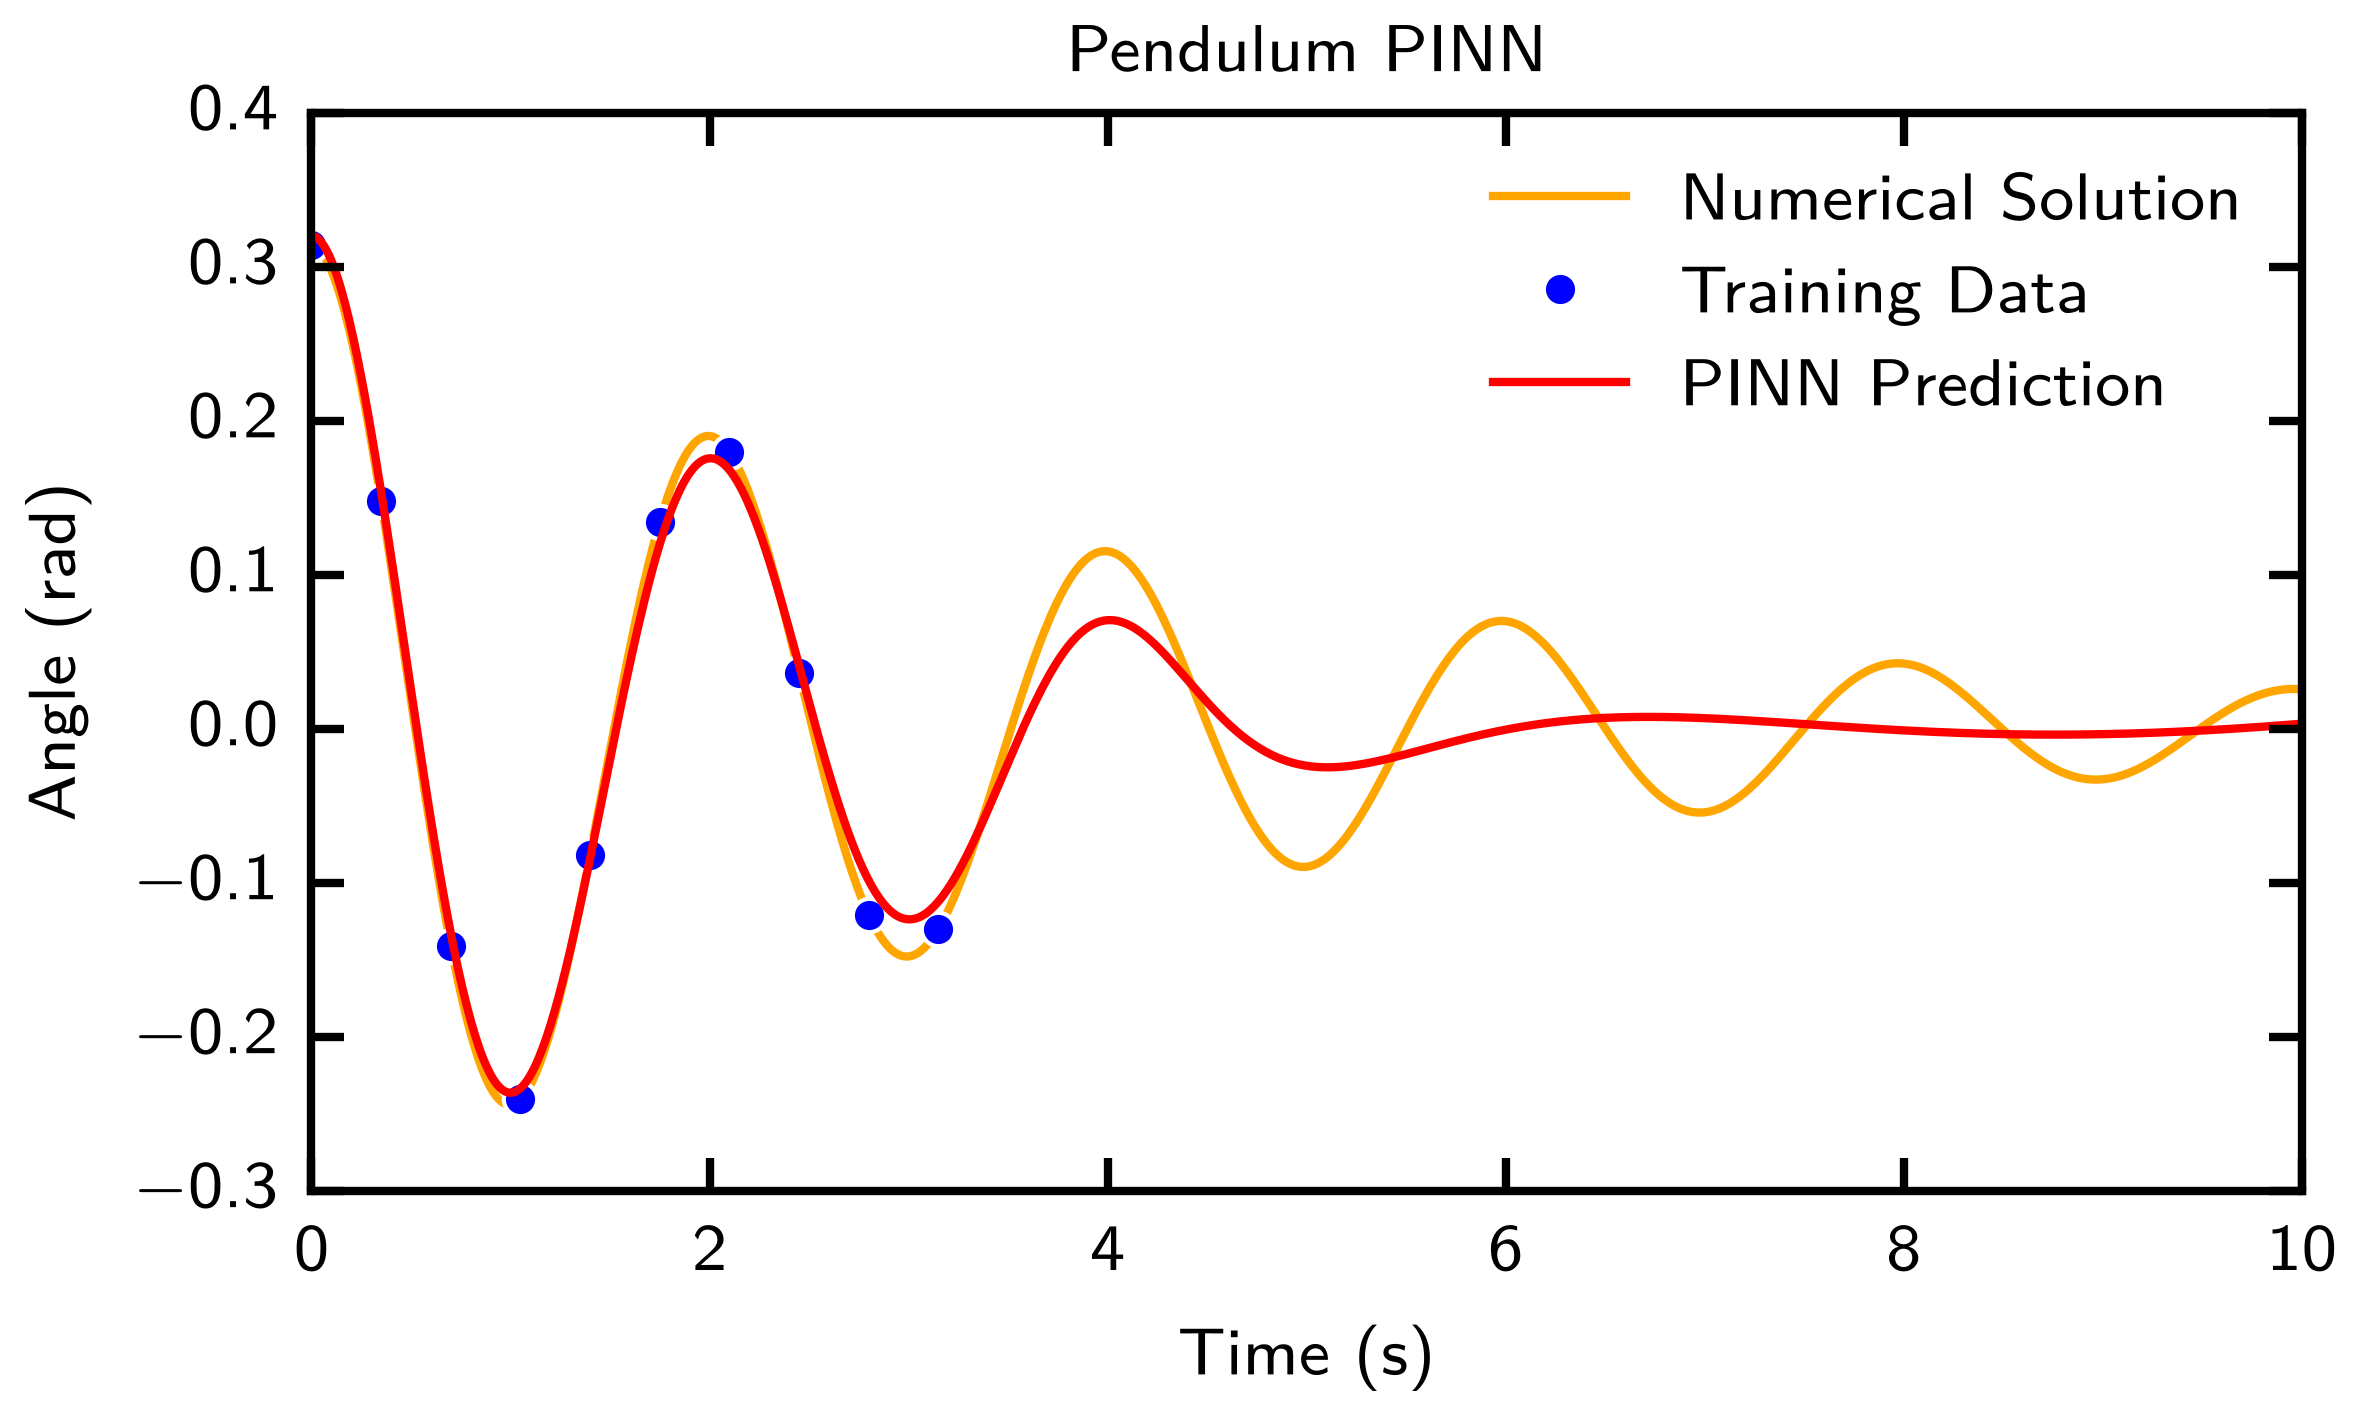
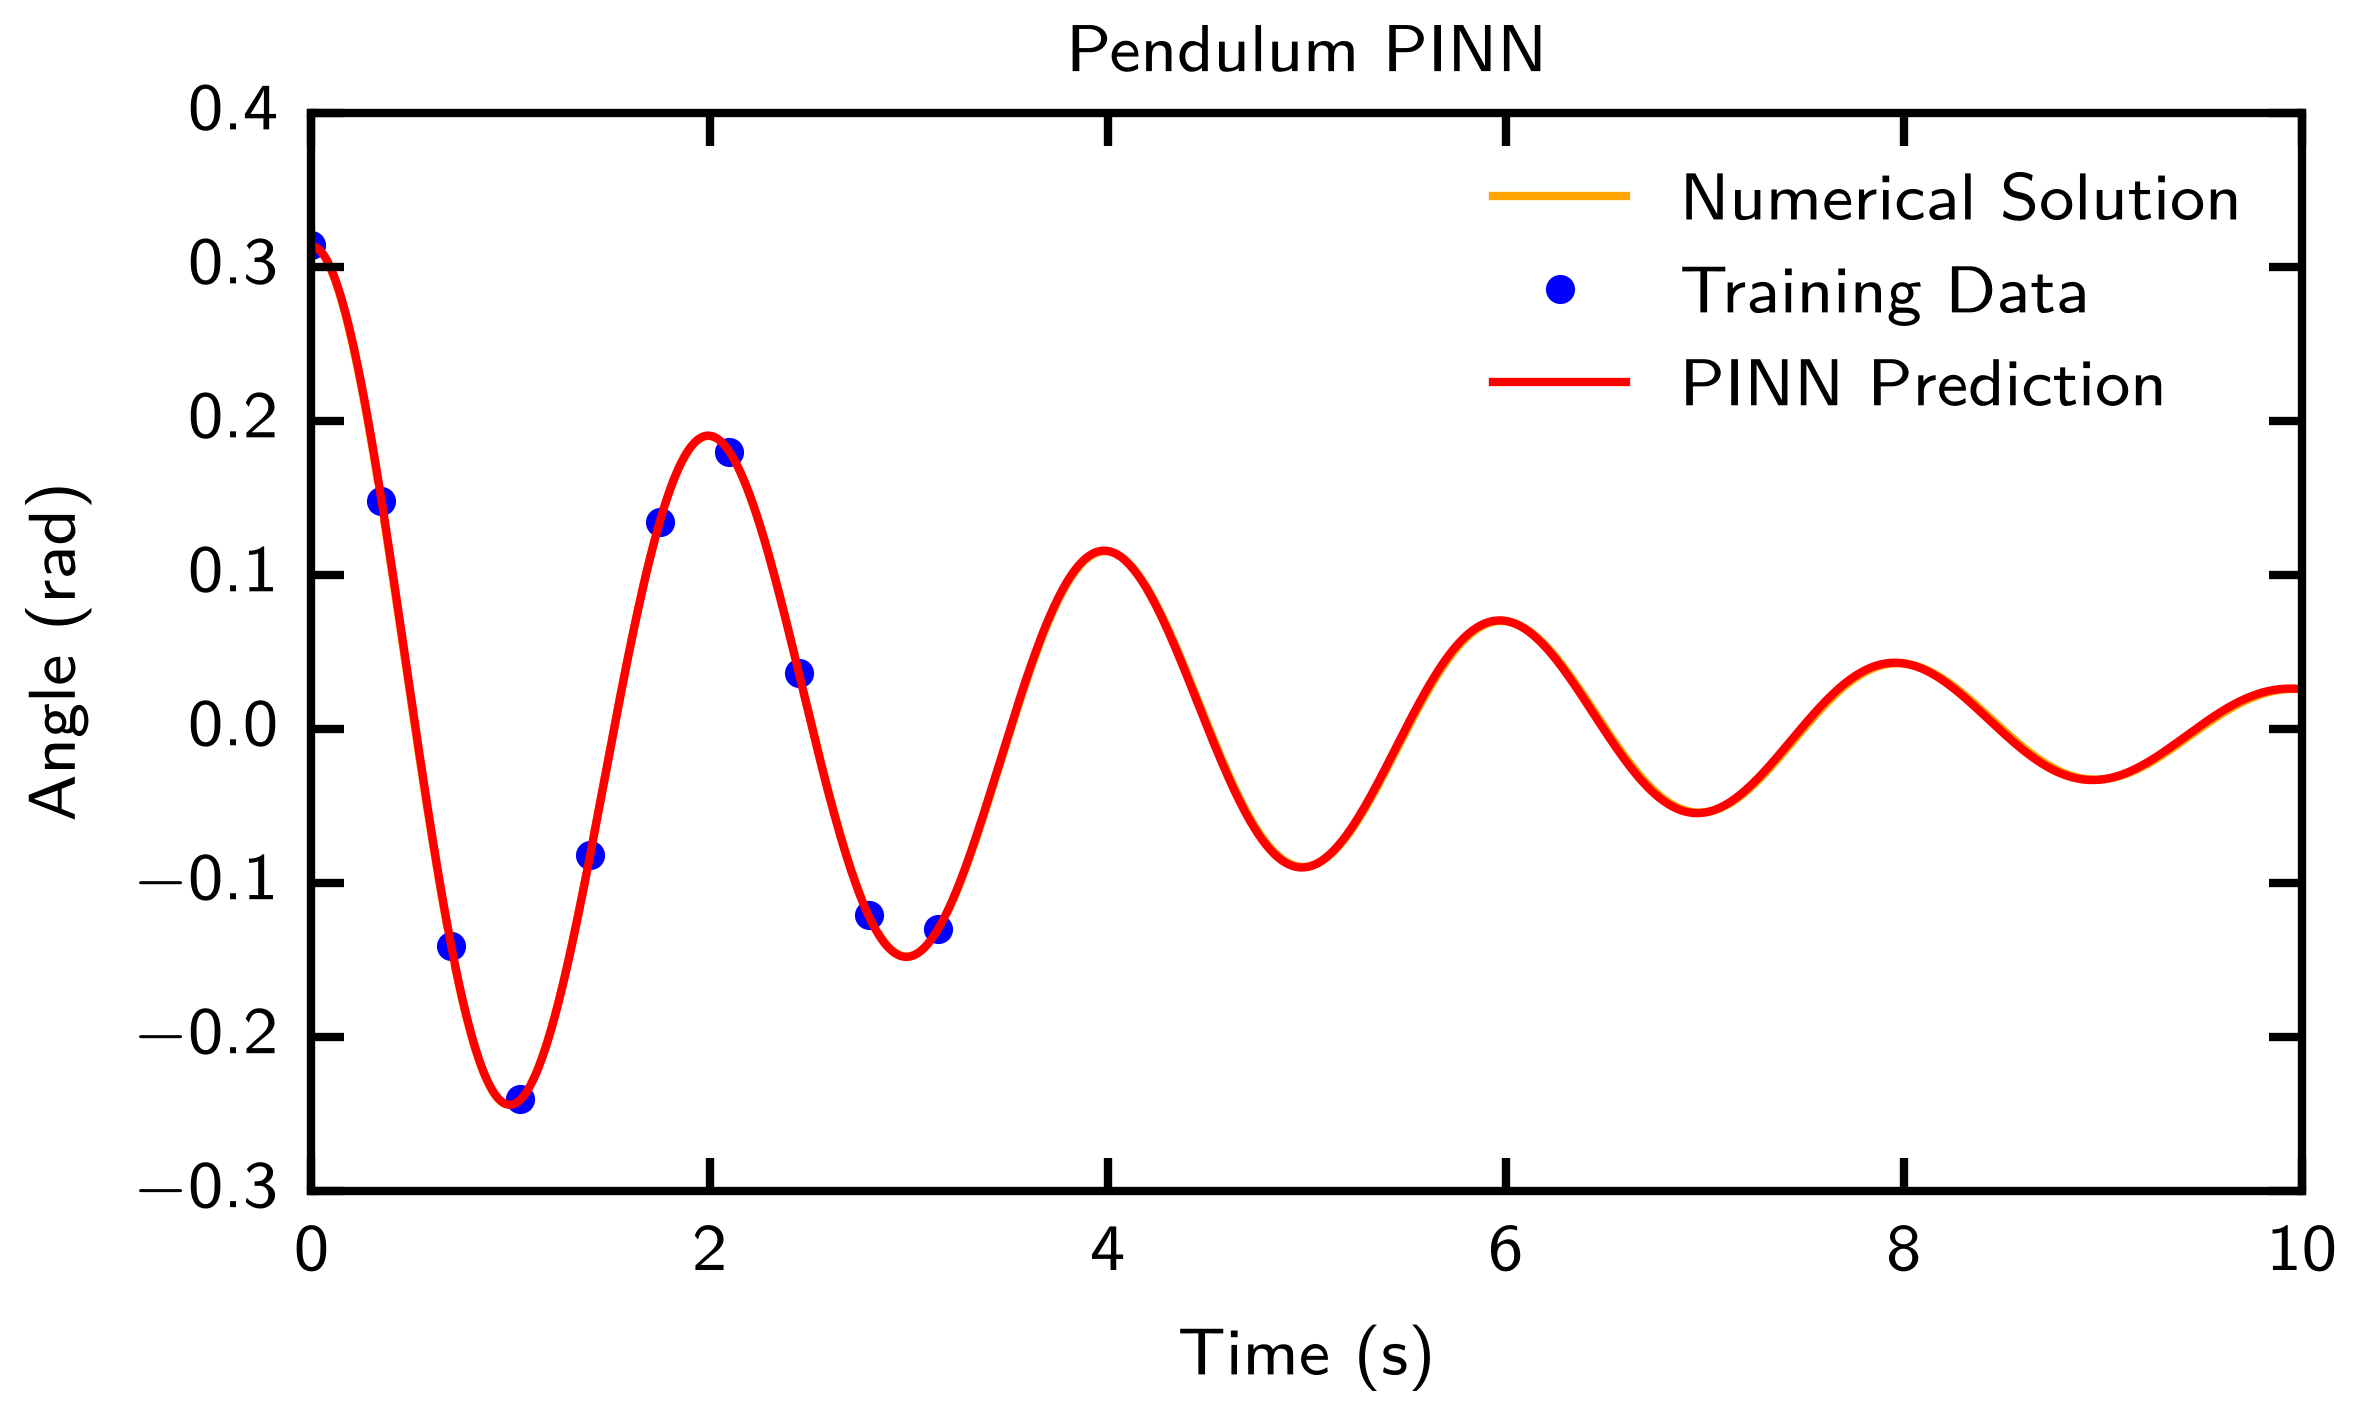
update

diff --git a/test.py b/test.py
@@ -136,7 +136,7 @@ t_max = t_num.max()
 start_time = time.time()
 
 class PINN(nn.Module):
-    def __init__(self, alpha_init=10.0, beta_init=0.2):
+    def __init__(self, alpha_init=0.0, beta_init=0.0):
         super().__init__()
 
         self.network = nn.Sequential(
@@ -158,8 +158,8 @@ class PINN(nn.Module):
         return self.network(t_scaled)
 
 
-alpha_init = 10.0
-beta_init = 0.5
+alpha_init = 0.0
+beta_init = 0.0
 
 model = PINN(alpha_init=alpha_init, beta_init=beta_init).to(device)
 
@@ -190,7 +190,7 @@ pinn_snapshots = []
 ### Optimization ###
 optimizer = torch.optim.Adam(model.parameters(), lr=1e-4)
 
-epochs = 10000
+epochs = 1000000
 lamb_data = 1e3
 lamb_physics = 1e2
 lamb_init = 5e1
